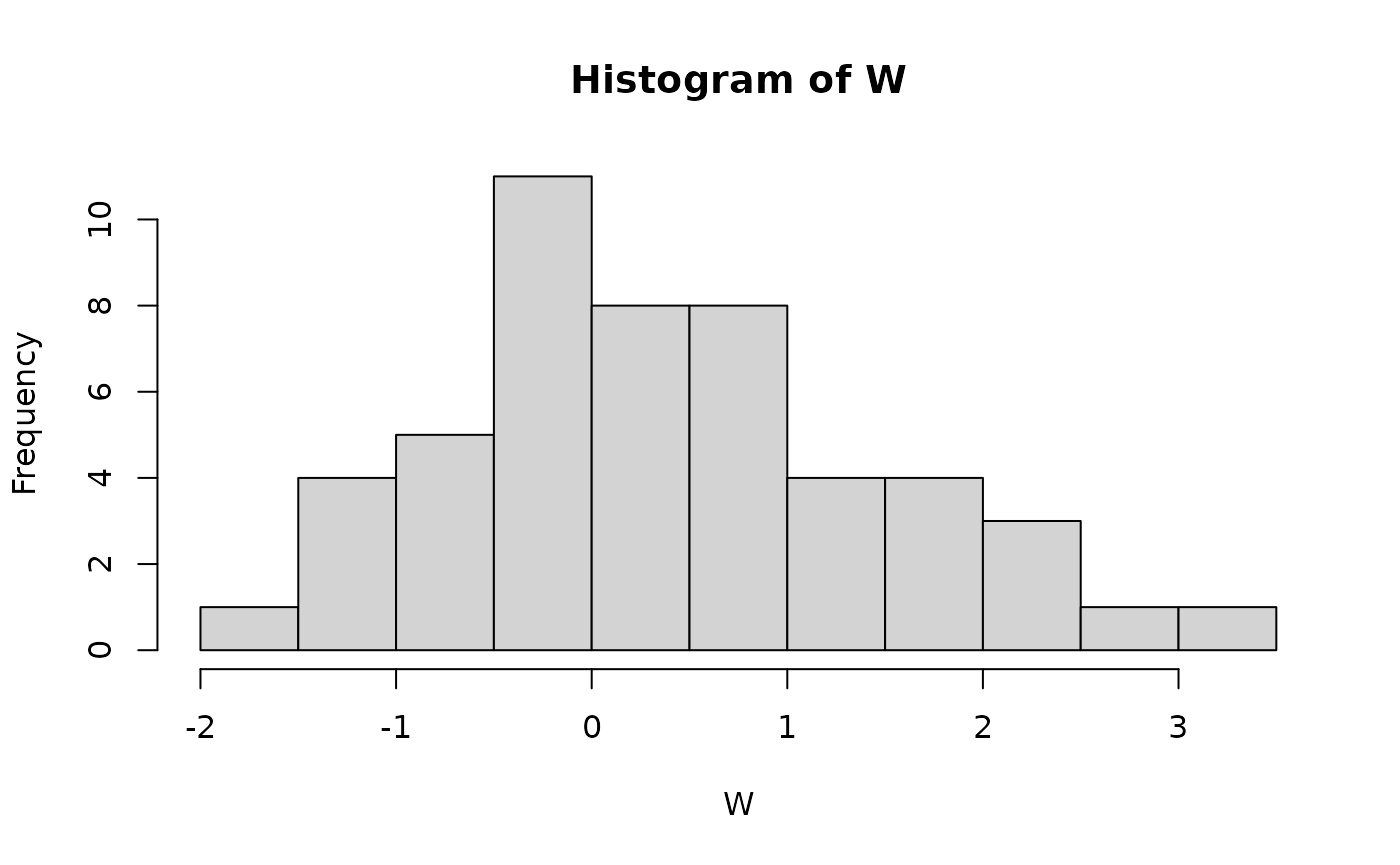
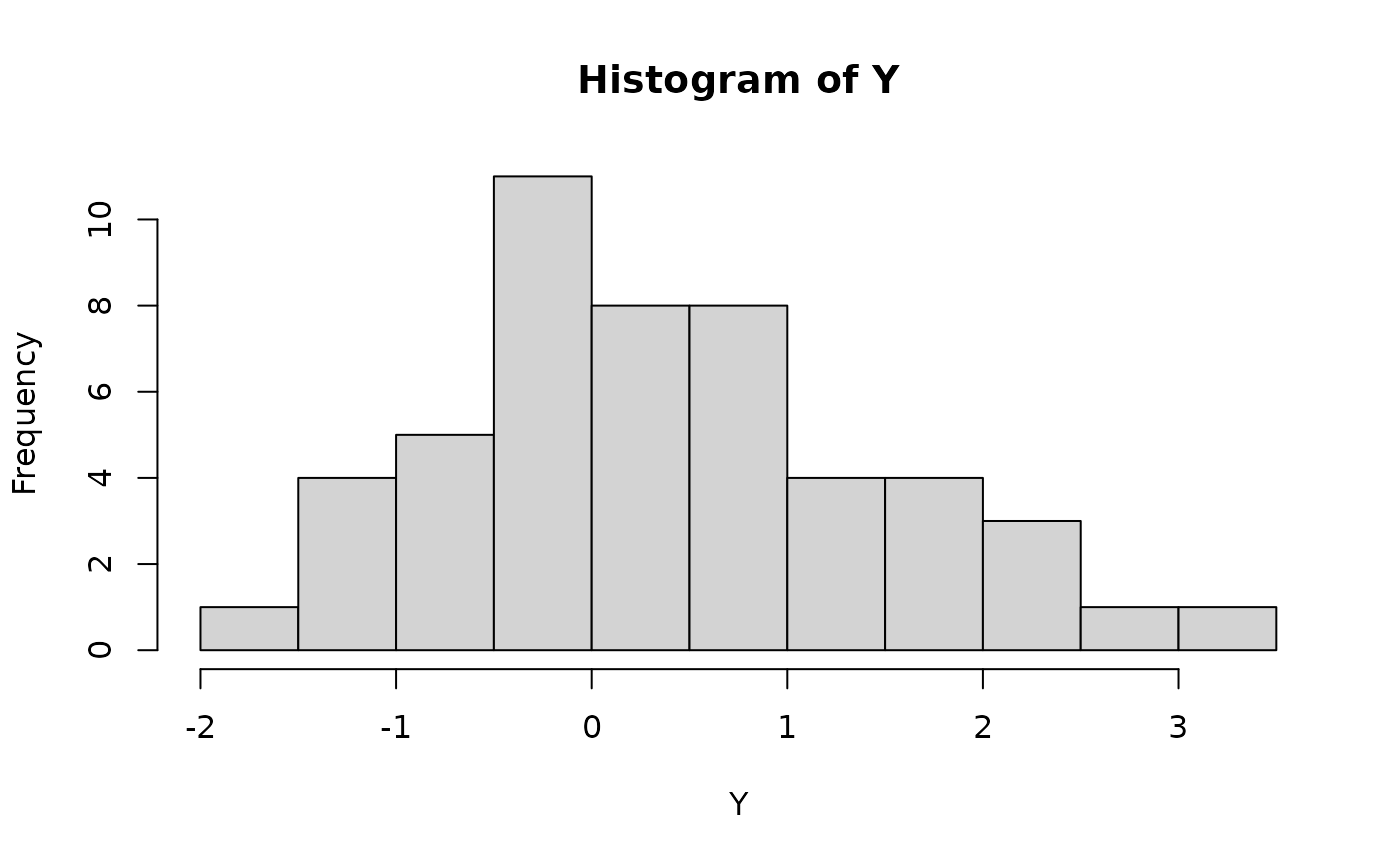
Built site for EM.examples: 0.0.0.9000@23eec89

Changed region(s): [[0.3993, 0.0624, 0.645, 0.1249], [0.5221, 0.9052, 0.5529, 0.9364]]

diff --git a/articles/McLachlan-p-17.html b/articles/McLachlan-p-17.html
@@ -98,36 +98,42 @@
 <span class="va">sigma</span> <span class="op">=</span> <span class="fl">1</span>
 <span class="va">pi</span> <span class="op">=</span> <span class="fu"><a href="https://rdrr.io/r/base/c.html" class="external-link">c</a></span><span class="op">(</span><span class="fl">.8</span>,<span class="fl">.2</span><span class="op">)</span>
 <span class="fu"><a href="https://rdrr.io/r/base/Random.html" class="external-link">set.seed</a></span><span class="op">(</span><span class="fl">1</span><span class="op">)</span>
-<span class="va">Z</span> <span class="op">=</span> <span class="fu"><a href="https://rdrr.io/r/stats/Binomial.html" class="external-link">rbinom</a></span><span class="op">(</span>n <span class="op">=</span> <span class="va">n</span>, size <span class="op">=</span> <span class="fl">1</span>, p <span class="op">=</span> <span class="va">pi</span><span class="op">[</span><span class="fl">2</span><span class="op">]</span><span class="op">)</span> |&gt; <span class="fu"><a href="https://rdrr.io/r/base/factor.html" class="external-link">factor</a></span><span class="op">(</span>labels <span class="op">=</span> <span class="fu"><a href="https://rdrr.io/r/base/c.html" class="external-link">c</a></span><span class="op">(</span><span class="st">"Group 1"</span>, <span class="st">"Group 2"</span><span class="op">)</span><span class="op">)</span>
-<span class="va">W</span> <span class="op">=</span> <span class="fu"><a href="https://rdrr.io/r/stats/Normal.html" class="external-link">rnorm</a></span><span class="op">(</span>n <span class="op">=</span> <span class="va">n</span>, mean <span class="op">=</span> <span class="fu"><a href="https://rdrr.io/r/base/ifelse.html" class="external-link">ifelse</a></span><span class="op">(</span><span class="va">Z</span> <span class="op">==</span> <span class="st">"Group 1"</span>, <span class="va">mu</span><span class="op">[</span><span class="fl">1</span><span class="op">]</span>, <span class="va">mu</span><span class="op">[</span><span class="fl">2</span><span class="op">]</span><span class="op">)</span>, sd <span class="op">=</span> <span class="va">sigma</span><span class="op">)</span>
-<span class="fu"><a href="https://rdrr.io/r/graphics/hist.html" class="external-link">hist</a></span><span class="op">(</span><span class="va">W</span>, breaks <span class="op">=</span> <span class="fl">10</span><span class="op">)</span></code></pre></div>
+<span class="va">Z</span> <span class="op">=</span> <span class="fu"><a href="https://rdrr.io/r/stats/Binomial.html" class="external-link">rbinom</a></span><span class="op">(</span>n <span class="op">=</span> <span class="va">n</span>, size <span class="op">=</span> <span class="fl">1</span>, p <span class="op">=</span> <span class="va">pi</span><span class="op">[</span><span class="fl">2</span><span class="op">]</span><span class="op">)</span> |&gt; <span class="fu"><a href="https://rdrr.io/r/base/factor.html" class="external-link">factor</a></span><span class="op">(</span>labels <span class="op">=</span> <span class="fu"><a href="https://rdrr.io/r/base/c.html" class="external-link">c</a></span><span class="op">(</span><span class="st">"Z = 0"</span>, <span class="st">"Z = 1"</span><span class="op">)</span><span class="op">)</span>
+<span class="va">Y</span> <span class="op">=</span> <span class="fu"><a href="https://rdrr.io/r/stats/Normal.html" class="external-link">rnorm</a></span><span class="op">(</span>n <span class="op">=</span> <span class="va">n</span>, mean <span class="op">=</span> <span class="fu"><a href="https://rdrr.io/r/base/ifelse.html" class="external-link">ifelse</a></span><span class="op">(</span><span class="va">Z</span> <span class="op">==</span> <span class="st">"Z = 0"</span>, <span class="va">mu</span><span class="op">[</span><span class="fl">1</span><span class="op">]</span>, <span class="va">mu</span><span class="op">[</span><span class="fl">2</span><span class="op">]</span><span class="op">)</span>, sd <span class="op">=</span> <span class="va">sigma</span><span class="op">)</span>
+<span class="fu"><a href="https://rdrr.io/r/graphics/hist.html" class="external-link">hist</a></span><span class="op">(</span><span class="va">Y</span>, breaks <span class="op">=</span> <span class="fl">10</span><span class="op">)</span></code></pre></div>
 <p><img src="McLachlan-p-17_files/figure-html/unnamed-chunk-2-1.png" width="700"></p>
 <div class="sourceCode" id="cb3"><pre class="downlit sourceCode r">
-<code class="sourceCode R"><span class="va">data1</span> <span class="op">=</span> <span class="fu"><a href="https://tibble.tidyverse.org/reference/tibble.html" class="external-link">tibble</a></span><span class="op">(</span><span class="va">Z</span>, <span class="va">W</span><span class="op">)</span></code></pre></div>
+<code class="sourceCode R"><span class="va">data1</span> <span class="op">=</span> <span class="fu"><a href="https://tibble.tidyverse.org/reference/tibble.html" class="external-link">tibble</a></span><span class="op">(</span><span class="va">Z</span>, <span class="va">Y</span><span class="op">)</span></code></pre></div>
 <p>Here’s the observed data:</p>
 <div class="sourceCode" id="cb4"><pre class="downlit sourceCode r">
-<code class="sourceCode R"><span class="fu"><a href="https://ggplot2.tidyverse.org/reference/ggplot.html" class="external-link">ggplot</a></span><span class="op">(</span><span class="va">data1</span>, <span class="fu"><a href="https://ggplot2.tidyverse.org/reference/aes.html" class="external-link">aes</a></span><span class="op">(</span>x <span class="op">=</span> <span class="va">W</span><span class="op">)</span><span class="op">)</span> <span class="op">+</span>
-  <span class="fu"><a href="https://ggplot2.tidyverse.org/reference/geom_histogram.html" class="external-link">geom_histogram</a></span><span class="op">(</span><span class="op">)</span>
+<code class="sourceCode R"><span class="fu"><a href="https://ggplot2.tidyverse.org/reference/ggplot.html" class="external-link">ggplot</a></span><span class="op">(</span><span class="va">data1</span>, <span class="fu"><a href="https://ggplot2.tidyverse.org/reference/aes.html" class="external-link">aes</a></span><span class="op">(</span>x <span class="op">=</span> <span class="va">Y</span><span class="op">)</span><span class="op">)</span> <span class="op">+</span>
+  <span class="fu"><a href="https://ggplot2.tidyverse.org/reference/geom_histogram.html" class="external-link">geom_histogram</a></span><span class="op">(</span><span class="op">)</span> <span class="op">+</span>
+  <span class="fu"><a href="https://ggplot2.tidyverse.org/reference/theme.html" class="external-link">theme</a></span><span class="op">(</span>axis.text<span class="op">=</span><span class="fu"><a href="https://ggplot2.tidyverse.org/reference/element.html" class="external-link">element_text</a></span><span class="op">(</span>size<span class="op">=</span><span class="fl">14</span><span class="op">)</span>,
+        axis.title<span class="op">=</span><span class="fu"><a href="https://ggplot2.tidyverse.org/reference/element.html" class="external-link">element_text</a></span><span class="op">(</span>size<span class="op">=</span><span class="fl">18</span>,face<span class="op">=</span><span class="st">"bold"</span><span class="op">)</span><span class="op">)</span>
 <span class="co">#&gt; `stat_bin()` using `bins = 30`. Pick better value with `binwidth`.</span></code></pre></div>
 <p><img src="McLachlan-p-17_files/figure-html/unnamed-chunk-3-1.png" width="700"></p>
 <p>And here’s the (latent) complete data:</p>
 <div class="sourceCode" id="cb5"><pre class="downlit sourceCode r">
-<code class="sourceCode R"><span class="fu"><a href="https://ggplot2.tidyverse.org/reference/ggplot.html" class="external-link">ggplot</a></span><span class="op">(</span><span class="va">data1</span>, <span class="fu"><a href="https://ggplot2.tidyverse.org/reference/aes.html" class="external-link">aes</a></span><span class="op">(</span>x <span class="op">=</span> <span class="va">W</span><span class="op">)</span><span class="op">)</span> <span class="op">+</span>
+<code class="sourceCode R"><span class="fu"><a href="https://ggplot2.tidyverse.org/reference/ggplot.html" class="external-link">ggplot</a></span><span class="op">(</span><span class="va">data1</span>, <span class="fu"><a href="https://ggplot2.tidyverse.org/reference/aes.html" class="external-link">aes</a></span><span class="op">(</span>x <span class="op">=</span> <span class="va">Y</span><span class="op">)</span><span class="op">)</span> <span class="op">+</span>
   <span class="fu"><a href="https://ggplot2.tidyverse.org/reference/geom_histogram.html" class="external-link">geom_histogram</a></span><span class="op">(</span><span class="op">)</span> <span class="op">+</span>
-  <span class="fu"><a href="https://ggplot2.tidyverse.org/reference/facet_wrap.html" class="external-link">facet_wrap</a></span><span class="op">(</span><span class="op">~</span><span class="va">Z</span>, ncol <span class="op">=</span> <span class="fl">1</span><span class="op">)</span>
+  <span class="fu"><a href="https://ggplot2.tidyverse.org/reference/facet_wrap.html" class="external-link">facet_wrap</a></span><span class="op">(</span><span class="op">~</span><span class="va">Z</span>, ncol <span class="op">=</span> <span class="fl">1</span><span class="op">)</span> <span class="op">+</span>
+  <span class="fu"><a href="https://ggplot2.tidyverse.org/reference/theme.html" class="external-link">theme</a></span><span class="op">(</span>
+    strip.text.x <span class="op">=</span> <span class="fu"><a href="https://ggplot2.tidyverse.org/reference/element.html" class="external-link">element_text</a></span><span class="op">(</span>size <span class="op">=</span> <span class="fl">18</span><span class="op">)</span>,
+    axis.text<span class="op">=</span><span class="fu"><a href="https://ggplot2.tidyverse.org/reference/element.html" class="external-link">element_text</a></span><span class="op">(</span>size<span class="op">=</span><span class="fl">14</span><span class="op">)</span>,
+        axis.title<span class="op">=</span><span class="fu"><a href="https://ggplot2.tidyverse.org/reference/element.html" class="external-link">element_text</a></span><span class="op">(</span>size<span class="op">=</span><span class="fl">18</span>,face<span class="op">=</span><span class="st">"bold"</span><span class="op">)</span><span class="op">)</span>
 <span class="co">#&gt; `stat_bin()` using `bins = 30`. Pick better value with `binwidth`.</span></code></pre></div>
 <p><img src="McLachlan-p-17_files/figure-html/unnamed-chunk-4-1.png" width="700"></p>
 <div class="sourceCode" id="cb6"><pre class="downlit sourceCode r">
 <code class="sourceCode R">
-<span class="va">`p(W=w|Z=1)`</span> <span class="op">=</span> <span class="fu"><a href="https://rdrr.io/r/stats/Normal.html" class="external-link">dnorm</a></span><span class="op">(</span><span class="va">W</span>, <span class="va">mu</span><span class="op">[</span><span class="fl">1</span><span class="op">]</span>, sd <span class="op">=</span> <span class="va">sigma</span><span class="op">)</span>
-<span class="va">`p(W=w|Z=2)`</span> <span class="op">=</span> <span class="fu"><a href="https://rdrr.io/r/stats/Normal.html" class="external-link">dnorm</a></span><span class="op">(</span><span class="va">W</span>, <span class="va">mu</span><span class="op">[</span><span class="fl">2</span><span class="op">]</span>, sd <span class="op">=</span> <span class="va">sigma</span><span class="op">)</span>
+<span class="va">`p(Y=y|Z=0)`</span> <span class="op">=</span> <span class="fu"><a href="https://rdrr.io/r/stats/Normal.html" class="external-link">dnorm</a></span><span class="op">(</span><span class="va">Y</span>, <span class="va">mu</span><span class="op">[</span><span class="fl">1</span><span class="op">]</span>, sd <span class="op">=</span> <span class="va">sigma</span><span class="op">)</span>
+<span class="va">`p(Y=y|Z=1)`</span> <span class="op">=</span> <span class="fu"><a href="https://rdrr.io/r/stats/Normal.html" class="external-link">dnorm</a></span><span class="op">(</span><span class="va">Y</span>, <span class="va">mu</span><span class="op">[</span><span class="fl">2</span><span class="op">]</span>, sd <span class="op">=</span> <span class="va">sigma</span><span class="op">)</span>
 
 <span class="va">likelihood</span> <span class="op">=</span> <span class="kw">function</span><span class="op">(</span><span class="va">pi1</span><span class="op">)</span>
 <span class="op">{</span>
   <span class="fu"><a href="https://rdrr.io/r/base/lapply.html" class="external-link">sapply</a></span><span class="op">(</span><span class="va">pi1</span>, 
     <span class="kw">function</span><span class="op">(</span><span class="va">x</span><span class="op">)</span>
     <span class="op">{</span>
-      <span class="op">(</span><span class="va">x</span> <span class="op">*</span> <span class="va">`p(W=w|Z=1)`</span> <span class="op">+</span> <span class="op">(</span><span class="fl">1</span> <span class="op">-</span> <span class="va">x</span><span class="op">)</span> <span class="op">*</span> <span class="va">`p(W=w|Z=2)`</span><span class="op">)</span> |&gt; <span class="fu"><a href="https://rdrr.io/r/base/prod.html" class="external-link">prod</a></span><span class="op">(</span><span class="op">)</span>
+      <span class="op">(</span><span class="va">x</span> <span class="op">*</span> <span class="va">`p(Y=y|Z=0)`</span> <span class="op">+</span> <span class="op">(</span><span class="fl">1</span> <span class="op">-</span> <span class="va">x</span><span class="op">)</span> <span class="op">*</span> <span class="va">`p(Y=y|Z=1)`</span><span class="op">)</span> |&gt; <span class="fu"><a href="https://rdrr.io/r/base/prod.html" class="external-link">prod</a></span><span class="op">(</span><span class="op">)</span>
     <span class="op">}</span><span class="op">)</span>
   
 <span class="op">}</span>
@@ -143,37 +149,66 @@
 </h2>
 <div class="sourceCode" id="cb7"><pre class="downlit sourceCode r">
 <code class="sourceCode R">
-<span class="va">`pi-hat`</span>  <span class="op">=</span> <span class="fl">.5</span>
+<span class="va">`p(Z=0)`</span>  <span class="op">=</span> <span class="fl">.5</span> <span class="co"># initial guess</span>
 <span class="va">diff</span> <span class="op">=</span> <span class="cn">Inf</span>
 <span class="va">tolerance</span> <span class="op">=</span> <span class="fl">.00001</span>
 <span class="va">progress</span> <span class="op">=</span> <span class="fu"><a href="https://tibble.tidyverse.org/reference/tibble.html" class="external-link">tibble</a></span><span class="op">(</span>
   Iteration <span class="op">=</span> <span class="fl">0</span>,
-  `pi-hat` <span class="op">=</span> <span class="va">`pi-hat`</span>,
-  loglik <span class="op">=</span>  <span class="fu">loglik</span><span class="op">(</span><span class="va">`pi-hat`</span><span class="op">)</span>
+  `p(Z=0)` <span class="op">=</span> <span class="va">`p(Z=0)`</span>,
+  loglik <span class="op">=</span>  <span class="fu">loglik</span><span class="op">(</span><span class="va">`p(Z=0)`</span><span class="op">)</span>
 <span class="op">)</span>
 <span class="va">max_iterations</span> <span class="op">=</span> <span class="fl">1000</span>
+
+<span class="fu"><a href="https://rdrr.io/r/graphics/par.html" class="external-link">par</a></span><span class="op">(</span>mfrow <span class="op">=</span> <span class="fu"><a href="https://rdrr.io/r/base/c.html" class="external-link">c</a></span><span class="op">(</span><span class="fl">1</span>,<span class="fl">1</span><span class="op">)</span><span class="op">)</span>
+  
+<span class="fu"><a href="https://rdrr.io/r/graphics/plot.default.html" class="external-link">plot</a></span><span class="op">(</span><span class="va">loglik</span>, xlim <span class="op">=</span> <span class="fu"><a href="https://rdrr.io/r/base/c.html" class="external-link">c</a></span><span class="op">(</span><span class="fl">0</span>,<span class="fl">1</span><span class="op">)</span>, xlab <span class="op">=</span> <span class="st">"p(Z=0)"</span>, ylab <span class="op">=</span> <span class="st">"log(likelihood)"</span>, lwd <span class="op">=</span> <span class="fl">2</span><span class="op">)</span>
+  
 <span class="kw">for</span><span class="op">(</span><span class="va">i</span> <span class="kw">in</span> <span class="fl">1</span><span class="op">:</span><span class="va">max_iterations</span><span class="op">)</span>
 <span class="op">{</span>
-  <span class="va">`p(W=w,Z=1)`</span> <span class="op">=</span> <span class="va">`p(W=w|Z=1)`</span><span class="op">*</span><span class="va">`pi-hat`</span>
-  <span class="va">`p(W=w,Z=2)`</span> <span class="op">=</span> <span class="va">`p(W=w|Z=2)`</span><span class="op">*</span><span class="op">(</span><span class="fl">1</span> <span class="op">-</span> <span class="va">`pi-hat`</span><span class="op">)</span>
-  <span class="va">`p(W=w)`</span> <span class="op">=</span> <span class="va">`p(W=w,Z=1)`</span> <span class="op">+</span> <span class="va">`p(W=w,Z=2)`</span>
-  <span class="va">`p(Z=1|W=w)`</span> <span class="op">=</span> <span class="va">`p(W=w,Z=1)`</span><span class="op">/</span><span class="va">`p(W=w)`</span>
-  <span class="va">`p(Z=2|W=w)`</span> <span class="op">=</span> <span class="va">`p(W=w,Z=2)`</span><span class="op">/</span><span class="va">`p(W=w)`</span>
-  <span class="va">`pi-hat-prev`</span> <span class="op">=</span> <span class="va">`pi-hat`</span>
-  <span class="va">`pi-hat`</span> <span class="op">=</span> <span class="fu"><a href="https://rdrr.io/r/base/mean.html" class="external-link">mean</a></span><span class="op">(</span><span class="va">`p(Z=1|W=w)`</span><span class="op">)</span>
-  <span class="va">diff</span> <span class="op">=</span> <span class="va">`pi-hat`</span> <span class="op">-</span> <span class="va">`pi-hat-prev`</span>
+  <span class="va">`p(Y=y,Z=0)`</span> <span class="op">=</span> <span class="va">`p(Y=y|Z=0)`</span><span class="op">*</span><span class="va">`p(Z=0)`</span>
+  <span class="va">`p(Y=y,Z=1)`</span> <span class="op">=</span> <span class="va">`p(Y=y|Z=1)`</span><span class="op">*</span><span class="op">(</span><span class="fl">1</span> <span class="op">-</span> <span class="va">`p(Z=0)`</span><span class="op">)</span>
+  <span class="va">`p(Y=y)`</span> <span class="op">=</span> <span class="va">`p(Y=y,Z=0)`</span> <span class="op">+</span> <span class="va">`p(Y=y,Z=1)`</span>
+  <span class="va">`p(Z=0|Y=y)`</span> <span class="op">=</span> <span class="va">`p(Y=y,Z=0)`</span><span class="op">/</span><span class="va">`p(Y=y)`</span>
+  <span class="va">`p(Z=1|Y=y)`</span> <span class="op">=</span> <span class="va">`p(Y=y,Z=1)`</span><span class="op">/</span><span class="va">`p(Y=y)`</span>
+  <span class="va">`pi-hat-prev`</span> <span class="op">=</span> <span class="va">`p(Z=0)`</span>
+  <span class="va">`p(Z=0)`</span> <span class="op">=</span> <span class="fu"><a href="https://rdrr.io/r/base/mean.html" class="external-link">mean</a></span><span class="op">(</span><span class="va">`p(Z=0|Y=y)`</span><span class="op">)</span>
+  
+  <span class="va">Q</span> <span class="op">=</span> <span class="kw">function</span><span class="op">(</span><span class="va">pi1</span><span class="op">)</span>
+  <span class="op">{</span>
+    <span class="fu"><a href="https://rdrr.io/r/base/lapply.html" class="external-link">sapply</a></span><span class="op">(</span><span class="va">pi1</span>, 
+      FUN <span class="op">=</span> <span class="kw">function</span><span class="op">(</span><span class="va">x</span><span class="op">)</span>
+        <span class="op">{</span>
+           <span class="fu"><a href="https://rdrr.io/r/base/sum.html" class="external-link">sum</a></span><span class="op">(</span><span class="op">(</span><span class="fu"><a href="https://rdrr.io/r/base/Log.html" class="external-link">log</a></span><span class="op">(</span><span class="va">`p(Y=y|Z=0)`</span><span class="op">)</span> <span class="op">+</span> <span class="fu"><a href="https://rdrr.io/r/base/Log.html" class="external-link">log</a></span><span class="op">(</span><span class="va">x</span><span class="op">)</span><span class="op">)</span><span class="op">*</span><span class="va">`p(Z=0|Y=y)`</span> <span class="op">+</span>
+               <span class="op">(</span><span class="fu"><a href="https://rdrr.io/r/base/Log.html" class="external-link">log</a></span><span class="op">(</span><span class="va">`p(Y=y|Z=1)`</span><span class="op">)</span> <span class="op">+</span> <span class="fu"><a href="https://rdrr.io/r/base/Log.html" class="external-link">log</a></span><span class="op">(</span><span class="fl">1</span><span class="op">-</span><span class="va">x</span><span class="op">)</span><span class="op">)</span><span class="op">*</span><span class="va">`p(Z=1|Y=y)`</span><span class="op">)</span>
+        <span class="op">}</span><span class="op">)</span>
+  <span class="op">}</span>
+  
+  <span class="co"># plot(loglik, xlim = c(0,1), xlab = "p(Z=0)", ylab = "log(likelihood)", lwd = 2)</span>
+  <span class="fu"><a href="https://rdrr.io/r/graphics/points.html" class="external-link">points</a></span><span class="op">(</span>x <span class="op">=</span> <span class="va">`pi-hat-prev`</span>, y <span class="op">=</span> <span class="fu">loglik</span><span class="op">(</span><span class="va">`pi-hat-prev`</span><span class="op">)</span>, col <span class="op">=</span> <span class="st">"red"</span>, pch <span class="op">=</span> <span class="fl">16</span><span class="op">)</span>
+  <span class="fu"><a href="https://rdrr.io/r/graphics/plot.default.html" class="external-link">plot</a></span><span class="op">(</span><span class="va">Q</span>, add <span class="op">=</span> <span class="cn">TRUE</span>, col <span class="op">=</span> <span class="st">'blue'</span>, lwd <span class="op">=</span> <span class="fl">2</span><span class="op">)</span>
+  <span class="fu"><a href="https://rdrr.io/r/graphics/legend.html" class="external-link">legend</a></span><span class="op">(</span>x <span class="op">=</span> <span class="st">"topleft"</span>, col <span class="op">=</span> <span class="fu"><a href="https://rdrr.io/r/base/c.html" class="external-link">c</a></span><span class="op">(</span><span class="st">'black'</span>, <span class="st">'blue'</span><span class="op">)</span>, lty <span class="op">=</span> <span class="fl">1</span>, 
+    lwd <span class="op">=</span> <span class="fl">2</span>,
+    legend <span class="op">=</span> <span class="fu"><a href="https://rdrr.io/r/base/c.html" class="external-link">c</a></span><span class="op">(</span><span class="st">"log-likelihood"</span>, <span class="fu"><a href="https://rdrr.io/r/base/expression.html" class="external-link">expression</a></span><span class="op">(</span><span class="fu">Q</span><span class="op">(</span><span class="va">pi</span>,<span class="fu"><a href="https://rdrr.io/r/grDevices/plotmath.html" class="external-link">hat</a></span><span class="op">(</span><span class="va">pi</span><span class="op">)</span><span class="op">)</span><span class="op">)</span><span class="op">)</span><span class="op">)</span>
+  <span class="fu"><a href="https://rdrr.io/r/graphics/points.html" class="external-link">points</a></span><span class="op">(</span>x <span class="op">=</span> <span class="va">`p(Z=0)`</span>, y <span class="op">=</span> <span class="fu">loglik</span><span class="op">(</span><span class="va">`p(Z=0)`</span><span class="op">)</span>, pch <span class="op">=</span> <span class="fl">16</span>, col <span class="op">=</span> <span class="st">'orange'</span><span class="op">)</span>
+  <span class="fu"><a href="https://rdrr.io/r/graphics/points.html" class="external-link">points</a></span><span class="op">(</span>x <span class="op">=</span> <span class="va">`p(Z=0)`</span>, y <span class="op">=</span> <span class="fu">Q</span><span class="op">(</span><span class="va">`p(Z=0)`</span><span class="op">)</span>, col <span class="op">=</span> <span class="st">"green"</span>, pch <span class="op">=</span> <span class="fl">16</span><span class="op">)</span>
+  
+  
+  
+  <span class="va">diff</span> <span class="op">=</span> <span class="va">`p(Z=0)`</span> <span class="op">-</span> <span class="va">`pi-hat-prev`</span>
   <span class="va">new_results</span> <span class="op">=</span> <span class="fu"><a href="https://tibble.tidyverse.org/reference/tibble.html" class="external-link">tibble</a></span><span class="op">(</span>
     Iteration <span class="op">=</span> <span class="va">i</span>,
-    `pi-hat` <span class="op">=</span> <span class="va">`pi-hat`</span>,
-    loglik <span class="op">=</span> <span class="fu">loglik</span><span class="op">(</span><span class="va">`pi-hat`</span><span class="op">)</span>,
+    `p(Z=0)` <span class="op">=</span> <span class="va">`p(Z=0)`</span>,
+    loglik <span class="op">=</span> <span class="fu">loglik</span><span class="op">(</span><span class="va">`p(Z=0)`</span><span class="op">)</span>,
     `diff(loglik)` <span class="op">=</span> <span class="va">diff</span><span class="op">)</span>
   
   <span class="va">progress</span> <span class="op">=</span> 
     <span class="fu"><a href="https://dplyr.tidyverse.org/reference/bind.html" class="external-link">bind_rows</a></span><span class="op">(</span><span class="va">progress</span>, <span class="va">new_results</span><span class="op">)</span>
     
   <span class="kw">if</span><span class="op">(</span><span class="va">diff</span> <span class="op">&lt;</span> <span class="va">tolerance</span><span class="op">)</span> <span class="kw">break</span>;  
-<span class="op">}</span>
-
+<span class="op">}</span></code></pre></div>
+<p><img src="McLachlan-p-17_files/figure-html/unnamed-chunk-6-1.png" width="576"></p>
+<div class="sourceCode" id="cb8"><pre class="downlit sourceCode r">
+<code class="sourceCode R">
 <span class="fu"><a href="https://rdrr.io/pkg/pander/man/pander.html" class="external-link">pander</a></span><span class="op">(</span><span class="va">progress</span><span class="op">)</span></code></pre></div>
 <table style="width:62%;" class="table">
 <colgroup>
@@ -184,7 +219,7 @@
 </colgroup>
 <thead><tr class="header">
 <th align="center">Iteration</th>
-<th align="center">pi-hat</th>
+<th align="center">p(Z=0)</th>
 <th align="center">loglik</th>
 <th align="center">diff(loglik)</th>
 </tr></thead>

diff --git a/authors.html b/authors.html
@@ -62,13 +62,15 @@
 
       <p>Morrison D (2022).
 <em>EM.examples: Examples of EM Algorithms</em>.
-https://d-morrison.github.io/EM.examples/, https://github.com/d-morrison/EM.examples. 
+https://d-morrison.github.io/EM.examples/,
+https://github.com/d-morrison/EM.examples. 
 </p>
       <pre>@Manual{,
   title = {EM.examples: Examples of EM Algorithms},
   author = {Douglas Ezra Morrison},
   year = {2022},
-  note = {https://d-morrison.github.io/EM.examples/, https://github.com/d-morrison/EM.examples},
+  note = {https://d-morrison.github.io/EM.examples/,
+https://github.com/d-morrison/EM.examples},
 }</pre>
     </div>
   </main><aside class="col-md-3"><nav id="toc"><h2>On this page</h2>
